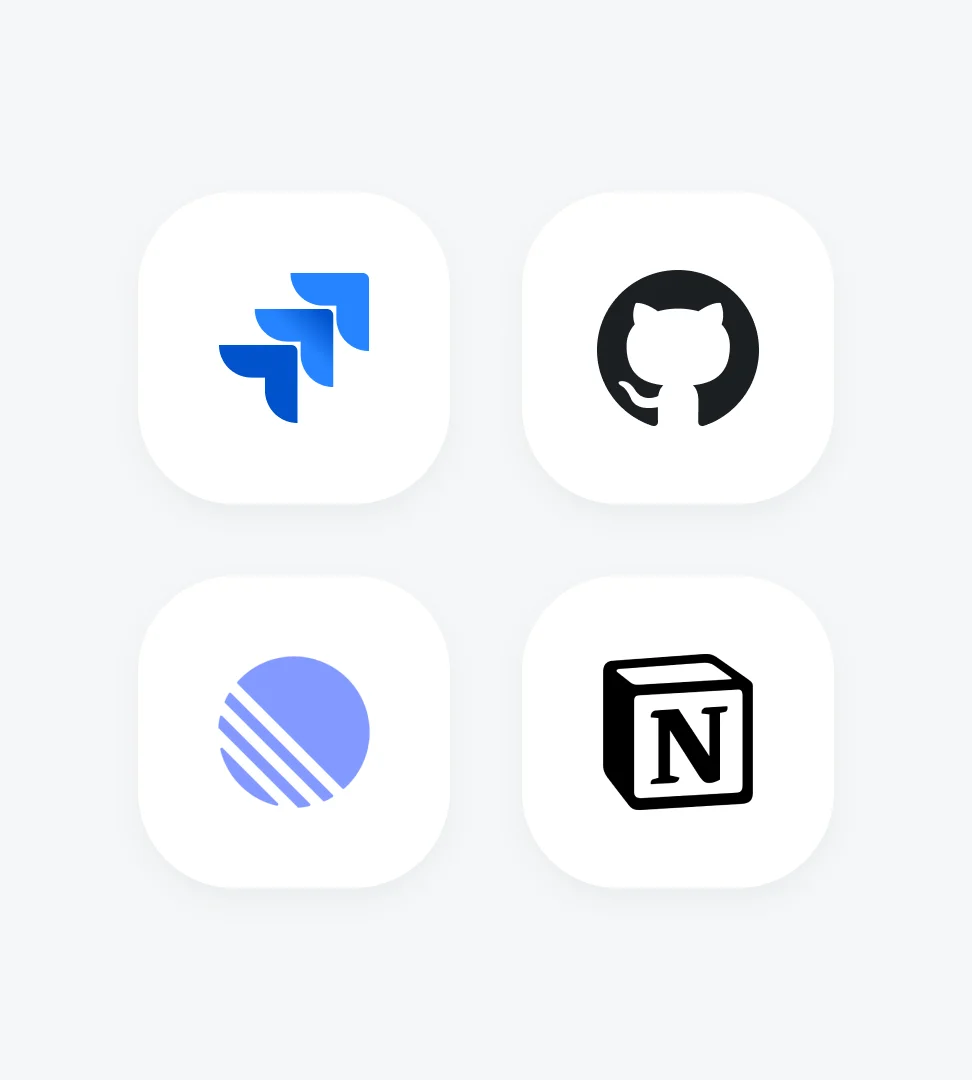
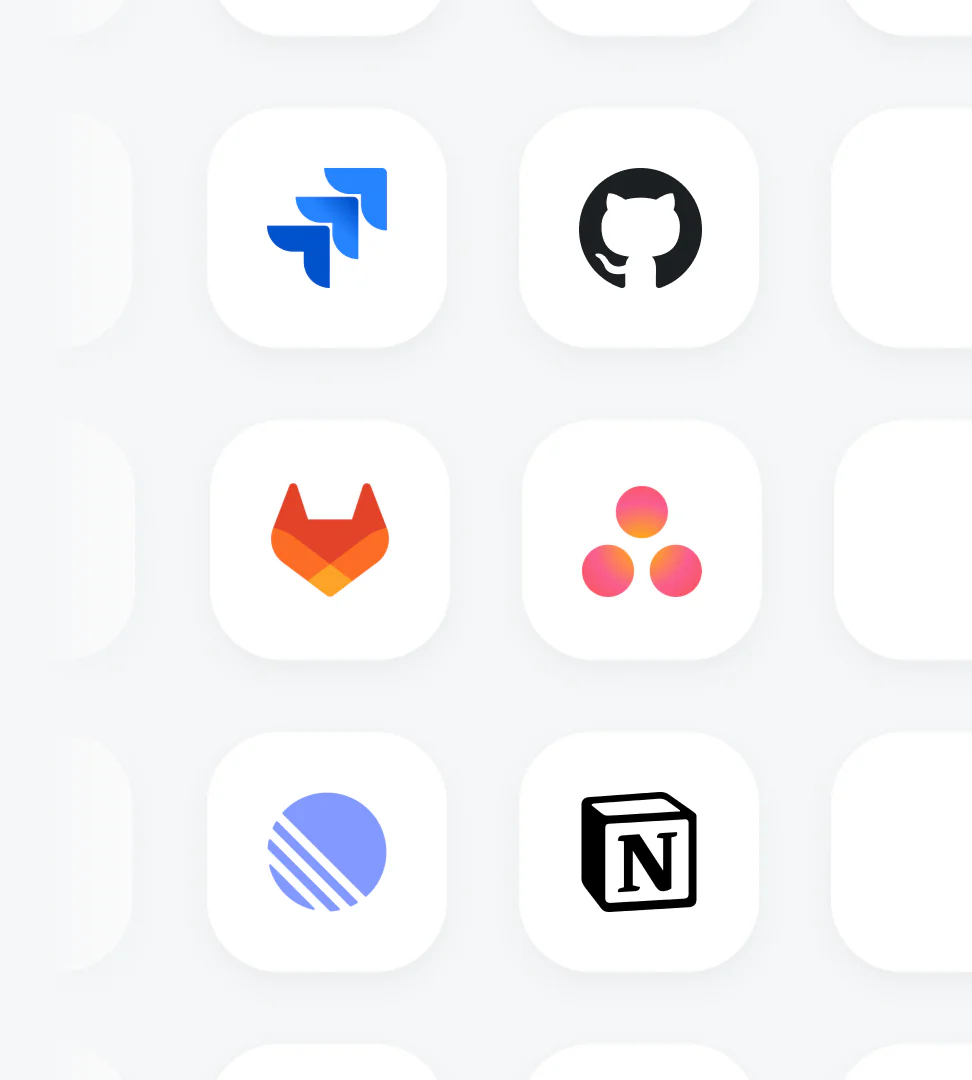
feat(landing): add guide links, refresh features for v1.3.1
- Add inline guide-doc links in FAQ and HowItWorks, plus a Footer guide link
- Install shadcn tooltip; add GUIDE_URL and per-key guide path maps
- Update platform mentions for GitLab/Asana (6 trackers)
- Rework feature cards: add Track Issue Status, swap Screenshot for AI Styling
- Refresh feature-card and how-step images (sharp_yuv edges)

diff --git a/src/components/Faq.tsx b/src/components/Faq.tsx
@@ -1,4 +1,4 @@
-import { getTranslations } from "next-intl/server";
+import { getLocale, getTranslations } from "next-intl/server";
 import {
   Accordion,
   AccordionContent,
@@ -6,10 +6,16 @@ import {
   AccordionTrigger,
 } from "@/components/ui/accordion";
 import { ScrollReveal } from "@/components/ScrollReveal";
-import { FAQ_KEYS } from "@/lib/constants";
+import {
+  FAQ_KEYS,
+  FAQ_GUIDE_PATHS,
+  GUIDE_URL,
+  CHROME_WEB_STORE_URL,
+} from "@/lib/constants";
 
 export async function Faq() {
   const t = await getTranslations("faq");
+  const locale = await getLocale();
 
   return (
     <div className="container mx-auto max-w-[960px]">
@@ -29,7 +35,28 @@ export async function Faq() {
                 {t(`items.${key}.q`)}
               </AccordionTrigger>
               <AccordionContent className="text-base text-foreground">
-                {t(`items.${key}.a`)}
+                {t.rich(`items.${key}.a`, {
+                  guide: (chunks) => (
+                    <a
+                      href={`${GUIDE_URL}/${locale}${FAQ_GUIDE_PATHS[key] ?? ""}`}
+                      target="_blank"
+                      rel="noopener noreferrer"
+                      className="font-medium text-brand underline-offset-4 hover:underline"
+                    >
+                      {chunks}
+                    </a>
+                  ),
+                  store: (chunks) => (
+                    <a
+                      href={CHROME_WEB_STORE_URL}
+                      target="_blank"
+                      rel="noopener noreferrer"
+                      className="font-medium text-brand underline-offset-4 hover:underline"
+                    >
+                      {chunks}
+                    </a>
+                  ),
+                })}
               </AccordionContent>
             </AccordionItem>
           ))}

diff --git a/src/components/HowItWorks.tsx b/src/components/HowItWorks.tsx
@@ -1,7 +1,7 @@
 "use client";
 
 import { useState } from "react";
-import { useTranslations } from "next-intl";
+import { useLocale, useTranslations } from "next-intl";
 import {
   Accordion,
   AccordionContent,
@@ -10,10 +10,11 @@ import {
 } from "@/components/ui/accordion";
 import { cn } from "@/lib/utils";
 import { useScrollReveal } from "@/hooks/useScrollReveal";
-import { HOW_KEYS } from "@/lib/constants";
+import { HOW_KEYS, HOW_GUIDE_PATHS, GUIDE_URL } from "@/lib/constants";
 
 export function HowItWorks() {
   const t = useTranslations("how");
+  const locale = useLocale();
   const { ref, revealed } = useScrollReveal<HTMLDivElement>();
   const [activeKey, setActiveKey] = useState<string>(HOW_KEYS[0]);
 
@@ -59,7 +60,18 @@ export function HowItWorks() {
                     alt={t(`steps.${key}.title`)}
                     className="mb-3 w-full md:hidden"
                   />
-                  {t(`steps.${key}.description`)}
+                  {t.rich(`steps.${key}.description`, {
+                    guide: (chunks) => (
+                      <a
+                        href={`${GUIDE_URL}/${locale}${HOW_GUIDE_PATHS[key] ?? ""}`}
+                        target="_blank"
+                        rel="noopener noreferrer"
+                        className="font-medium text-brand underline-offset-4 hover:underline"
+                      >
+                        {chunks}
+                      </a>
+                    ),
+                  })}
                 </AccordionContent>
               </AccordionItem>
             ))}

diff --git a/src/components/Footer.tsx b/src/components/Footer.tsx
@@ -1,12 +1,18 @@
-import { useTranslations } from "next-intl";
-import { GITHUB_URL, PRIVACY_POLICY_URL, CONTACT_EMAIL } from "@/lib/constants";
+import { useLocale, useTranslations } from "next-intl";
+import {
+  GITHUB_URL,
+  PRIVACY_POLICY_URL,
+  CONTACT_EMAIL,
+  GUIDE_URL,
+} from "@/lib/constants";
 
 export function Footer() {
   const t = useTranslations("footer");
+  const locale = useLocale();
 
   return (
     <footer className="px-10 py-[60px]">
-      <div className="container mx-auto flex max-w-[1200px] items-center justify-center gap-6 text-sm text-muted-foreground/80">
+      <div className="container mx-auto flex max-w-[1200px] flex-wrap items-center justify-center gap-x-6 gap-y-3 text-sm text-muted-foreground/80">
         <a
           href={GITHUB_URL}
           target="_blank"
@@ -14,6 +20,14 @@ export function Footer() {
           className="hover:text-foreground focus-visible:text-foreground focus-visible:outline-none"
         >
           {t("github")}
+        </a>
+        <a
+          href={`${GUIDE_URL}/${locale}`}
+          target="_blank"
+          rel="noopener noreferrer"
+          className="font-medium text-foreground hover:text-brand focus-visible:text-brand focus-visible:outline-none"
+        >
+          {t("guide")}
         </a>
         <a
           href={PRIVACY_POLICY_URL}

diff --git a/src/lib/constants.ts b/src/lib/constants.ts
@@ -2,6 +2,7 @@ export const SITE_URL = "https://bug-shot.com";
 export const CHROME_WEB_STORE_URL =
   "https://chromewebstore.google.com/detail/bugshot/ohakhekagkodklkickemonmifdcbhmig";
 export const GITHUB_URL = "https://github.com/SinhyeokKang/bugshot-2";
+export const GUIDE_URL = "https://bugshot.gitbook.io";
 export const PRIVACY_POLICY_URL =
   "https://sinhyeokkang.github.io/bugshot-2/privacy";
 export const CONTACT_EMAIL = "ox501501@gmail.com";
@@ -14,6 +15,15 @@ export const FAQ_KEYS = [
   "privacy",
 ] as const;
 
+// FAQ 답변 inline 링크용 — 가이드 내 세부 문서 경로 (locale prefix 뒤에 붙음)
+export const FAQ_GUIDE_PATHS: Partial<
+  Record<(typeof FAQ_KEYS)[number], string>
+> = {
+  browser: "/readme/quick-start",
+  ai: "/settings/ai",
+  integrations: "/integrations",
+};
+
 export const REVIEW_KEYS = ["qe", "designer", "backend", "frontend"] as const;
 
 export const HOW_KEYS = [
@@ -24,3 +34,12 @@ export const HOW_KEYS = [
   "submitReport",
   "trackIssues",
 ] as const;
+
+// HowItWorks 스텝 설명 inline 링크용 — 가이드 내 세부 문서 경로 (locale prefix 뒤에 붙음)
+export const HOW_GUIDE_PATHS: Partial<
+  Record<(typeof HOW_KEYS)[number], string>
+> = {
+  connectTracker: "/integrations",
+  editStyles: "/element/styling",
+  aiDraft: "/settings/ai",
+};

diff --git a/src/components/ui/tooltip.tsx b/src/components/ui/tooltip.tsx
@@ -1,0 +1,32 @@
+"use client"
+
+import * as React from "react"
+import * as TooltipPrimitive from "@radix-ui/react-tooltip"
+
+import { cn } from "@/lib/utils"
+
+const TooltipProvider = TooltipPrimitive.Provider
+
+const Tooltip = TooltipPrimitive.Root
+
+const TooltipTrigger = TooltipPrimitive.Trigger
+
+const TooltipContent = React.forwardRef<
+  React.ElementRef<typeof TooltipPrimitive.Content>,
+  React.ComponentPropsWithoutRef<typeof TooltipPrimitive.Content>
+>(({ className, sideOffset = 4, ...props }, ref) => (
+  <TooltipPrimitive.Portal>
+    <TooltipPrimitive.Content
+      ref={ref}
+      sideOffset={sideOffset}
+      className={cn(
+        "z-50 overflow-hidden rounded-md bg-primary px-3 py-1.5 text-xs text-primary-foreground animate-in fade-in-0 zoom-in-95 data-[state=closed]:animate-out data-[state=closed]:fade-out-0 data-[state=closed]:zoom-out-95 data-[side=bottom]:slide-in-from-top-2 data-[side=left]:slide-in-from-right-2 data-[side=right]:slide-in-from-left-2 data-[side=top]:slide-in-from-bottom-2 origin-[--radix-tooltip-content-transform-origin]",
+        className
+      )}
+      {...props}
+    />
+  </TooltipPrimitive.Portal>
+))
+TooltipContent.displayName = TooltipPrimitive.Content.displayName
+
+export { Tooltip, TooltipTrigger, TooltipContent, TooltipProvider }

diff --git a/src/components/FeatureCards.tsx b/src/components/FeatureCards.tsx
@@ -4,8 +4,9 @@ import {
   Magnet,
   Wand2,
   Send,
-  Camera,
+  Palette,
   Film,
+  ListChecks,
 } from "lucide-react";
 import type { LucideIcon } from "lucide-react";
 import { getTranslations } from "next-intl/server";
@@ -24,14 +25,15 @@ interface FeatureItem {
 const FEATURES_BY_GROUP: Record<FeatureGroup, readonly FeatureItem[]> = {
   reporter: [
     { key: "inspect", icon: MousePointerClick, image: "inspect" },
-    { key: "screenshot", icon: Camera, image: "screenshot" },
+    { key: "aiStyling", icon: Palette, image: "ai-styling" },
     { key: "record", icon: Video, image: "record" },
     { key: "ai", icon: Wand2, image: "ai-reports" },
   ],
   dev: [
     { key: "autoCollect", icon: Magnet, image: "auto-collect" },
     { key: "submit", icon: Send, image: "integrations" },
-    { key: "logsViewer", icon: Film, image: "logs-viewer", span: true },
+    { key: "logsViewer", icon: Film, image: "logs-viewer" },
+    { key: "trackIssues", icon: ListChecks, image: "issue-tracking" },
   ],
 } as const;
 
